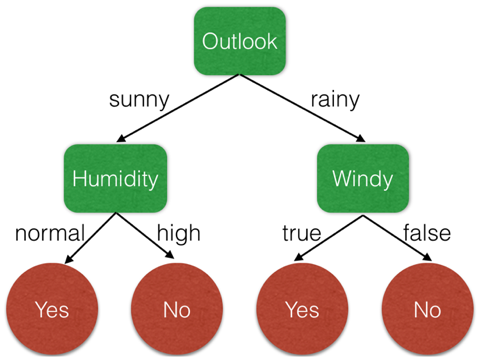
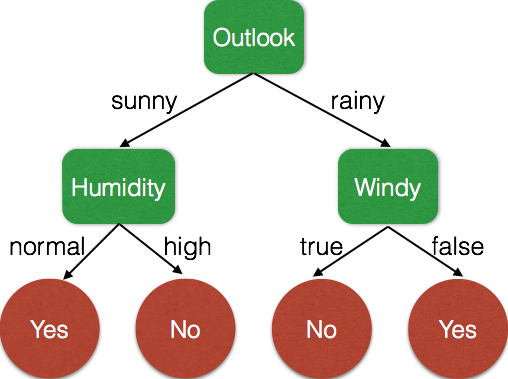
Modify decision tree image

diff --git a/prez/index.html b/prez/index.html
@@ -686,10 +686,10 @@ def getMetrics(model: NaiveBayesModel, data: RDD[LabeledPoint]): MulticlassMetri
                         <span class="bold">If</span> Outlook=Sunny <span class="bold">and</span> Humidity=High <span class="bold">then</span> No
                     </p>
                     <p>
-                        <span class="bold">If</span> Outlook=Rainy <span class="bold">and</span> Windy=True <span class="bold">then</span> Yes
+                        <span class="bold">If</span> Outlook=Rainy <span class="bold">and</span> Windy=True <span class="bold">then</span> No
                     </p>
                     <p>
-                        <span class="bold">If</span> Outlook=Rainy <span class="bold">and</span> Windy=False <span class="bold">then</span> No
+                        <span class="bold">If</span> Outlook=Rainy <span class="bold">and</span> Windy=False <span class="bold">then</span> Yes
                     </p>
                 </div>
             </section>
